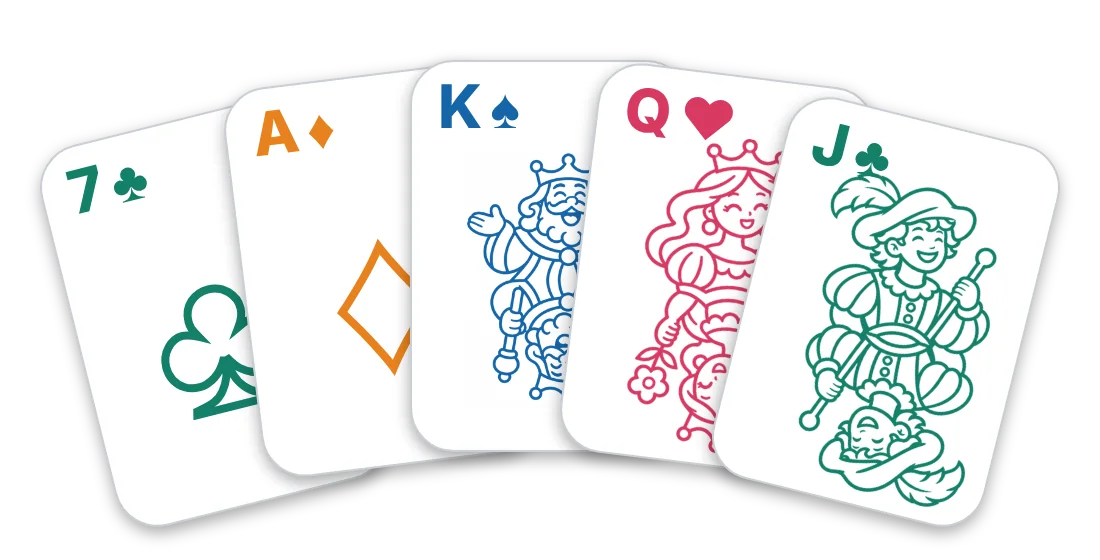
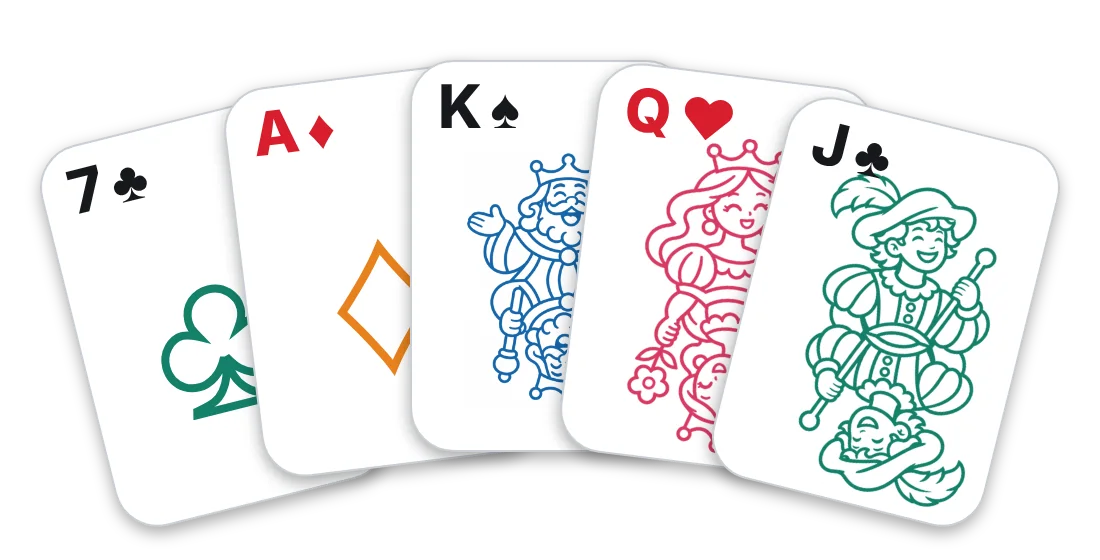
fix(freecell): Linea's corners in red or black (D-310) (#423)
Claude-Session: https://claude.ai/code/session_01Ew5DowasvzaYcp4A85xZqS

diff --git a/games/freecell/assets/cards.css b/games/freecell/assets/cards.css
@@ -35,14 +35,17 @@
 .fc-d-botanical .fc-flower { left: 22px; top: 34px; width: 110px; height: 140px; object-fit: contain; }
 .fc-d-botanical .fc-caption { display: block; position: absolute; left: 0; right: 0; bottom: 6px; text-align: center; font: 500 11px var(--display); color: #4a4a3c; pointer-events: none; }
 
-/* Linea: rounder white cards, one colour for each suit (the blue and green suits are the "black" ones), outlined pips,
-   court cards as line drawings in the suit's colour. */
+/* Linea: rounder white cards, one colour for each suit on the face (outlined pips, court cards as line drawings in
+   the suit's colour); the corner in plain red or black. */
 .fc-d-linea .fc-card { background: #fff; border: 1px solid #c9cfd6; border-radius: 22px; font-family: var(--text); font-weight: 800; }
 .fc-d-linea .fc-card.fc-s0 { color: #1565a8; }
 .fc-d-linea .fc-card.fc-s1 { color: #d83a62; }
 .fc-d-linea .fc-card.fc-s2 { color: #e8821e; }
 .fc-d-linea .fc-card.fc-s3 { color: #14806a; }
 .fc-d-linea .fc-ix { left: 13px; top: 8px; font-size: 30px; }
+/* The corner says red or black, as FreeCell needs it read at a glance (D-310); the rest of the face keeps its suit's colour. */
+.fc-d-linea .fc-card .fc-ix { color: #16181c; }
+.fc-d-linea .fc-card.red .fc-ix { color: #d81e2c; }
 .fc-d-linea .fc-pip { font-size: 100px; top: 60px; color: transparent; -webkit-text-stroke: 4px currentColor; }
 .fc-d-linea .fc-card.fc-s0 .fc-pip { -webkit-text-stroke-color: #1565a8; }
 .fc-d-linea .fc-card.fc-s1 .fc-pip { -webkit-text-stroke-color: #d83a62; }

diff --git a/games/freecell/assets/cards.js b/games/freecell/assets/cards.js
@@ -15,7 +15,7 @@ export const DESIGNS = [
   { id: "plain", name: "Plain", text: "Large, clear, no decoration." },
   { id: "mosaic", name: "Mosaic", text: "Green and gold, with tiled court cards." },
   { id: "botanical", name: "Botanical", text: "A flower for every rank." },
-  { id: "linea", name: "Linea", text: "Line drawings, a colour for each suit." },
+  { id: "linea", name: "Linea", text: "Line drawings in each suit's colour; corners in red and black." },
   { id: "speakeasy", name: "Speakeasy", text: "Sketches from the twenties on old paper." },
 ];
 export const DEFAULT_DESIGN = "classic";

diff --git a/docs/decisions.md b/docs/decisions.md
@@ -2752,6 +2752,11 @@ Klaus asked for the repo to follow kube-setup's conventions (its Obsidian vault 
   `assets/cards.js` and `cards.css` (shared by board and phone), `deck.js`, `deck.css`. Checks:
   `tests/freecell.test.ts`, `scripts/e2e/freecell.py` (each design on the board, kept across a reload; a card taken
   back, undone, refused with the rule off).
+  - *2026-11-22, Klaus:* "The Linea card faces are nice, but in FreeCell it is important to know if a card is red or
+    black … change at least the top left card value colour …, and we can keep the remainder of the face as it is."
+    Linea's corner (rank and suit) is plain red for hearts and diamonds and black for spades and clubs; the pip or
+    the drawing below keeps its suit's colour (blue, pink, orange, green). *(Klaus wrote "red or green"; Claude took
+    it as red and black, the two a FreeCell player tells apart, and said so.)* The website's picture of Linea is new.
 - **D-311 · 2026-11-21 · Klaus** — **The website shows FreeCell's card designs.** "A section in the landing page showing
   these cards as 'customized card designs can be selected in FreeCell', and that users can ask their LLM to add more.
   Mention [the model] … Show the designs in a soft and smooth animation, either time based or synced with scrolling."

diff --git a/CHANGELOG.md b/CHANGELOG.md
@@ -9,6 +9,7 @@ history.
 ## [Unreleased]
 
 - Packages: a start no longer hangs when the GitHub CLI waits for a locked keyring (as after automatic login): after 30 s the starter says so and goes on; the Linux guide shows a read-only token for such a table (D-316).
+- FreeCell: the Linea design's corners are plain red or black, so a card's colour reads at a glance; the faces keep their suits' colours (D-310).
 - Website: four links in the foot (The table, Game service, Game repositories, About) led nowhere from /build; fixed, and every link within the website is now checked with each change (D-312).
 - Packages: `--repos all` takes every game repository of klaushofrichter the GitHub sign-in can read (named …-game or …-games), so a new one needs no naming (D-314). In the packages once they are built again.
 - Board: Advanced › Quit the table, on a table started by the packages' starter: it stops Game Table on that computer, the way out of a kiosk browser (D-315).
